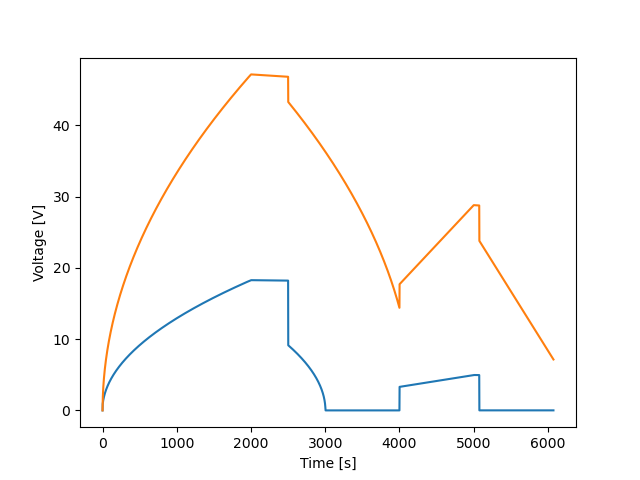
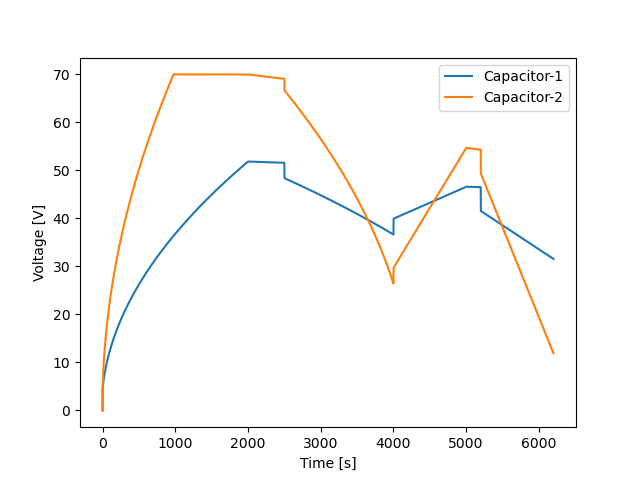
updated_examples

diff --git a/examples/test_supercap.py b/examples/test_supercap.py
@@ -7,19 +7,19 @@ def main():
 	#initialize capacitor-1 with its nameplate details
 	mysupercap1 = {
 		'leakcurrent' : 500e-4*3, #in A
-		'capacitance' : 400*3, # in F
-		'ratedcurrent' : 10*3, # in A
-		'initialvoltage' : 0*3, # in V
-		'ratedvoltage' : 70*3, # in V
+		'capacitance' : 300, # in F
+		'ratedcurrent' : 30, # in A
+		'initialvoltage' : 0, # in V
+		'ratedvoltage' : 70, # in V
 		'esr' : 0.55*3 # in ohms
 		}
 	#initialize capacitor-2 with its nameplate details	
 	mysupercap2 = {
-		'leakcurrent' : 400e-4*3, #in A
-		'capacitance' : 60*3, # in F
-		'ratedcurrent' : 25*3, # in A
-		'initialvoltage' : 0*3, # in V
-		'ratedvoltage' : 75*3, # in V
+		'leakcurrent' : 500e-4*3, #in A
+		'capacitance' : 80, # in F
+		'ratedcurrent' : 30, # in A
+		'initialvoltage' : 0, # in V
+		'ratedvoltage' : 70, # in V
 		'esr' : 0.55*3 # in ohms
 		}
 
@@ -29,22 +29,20 @@ def main():
 	testsc.set_timedelta(dtt.timedelta(seconds=1))
 	 
 	for i in range(0,2000):
-		testsc.charge_ctP(100)
+		testsc.charge_ctP(200)
 	for i in range(0,500):
 		testsc.selfdischarge()
 	for i in range(0,1500):
 		testsc.discharge_ctP(100) 
 	for i in range(0,1000):
 		testsc.charge_ctI(2)
-	for i in range(0,75):
+	for i in range(0,200):
 		testsc.selfdischarge()
 	for i in range(0,1000):
 		testsc.discharge_ctI(3) 
 		   
-	plt.plot(testsc.voltageseries)
-	plt.xlabel('Time [s]')
-	plt.ylabel('Voltage [V]')
-	#plt.show(block=True)  
+	plt.plot(testsc.voltageseries,label='Capacitor-1')
+
 	
 	#The following lines allow to generate a test charge and discharge process for the supercapacitor1
 	testsc2 = SuperCapacitorModel(mysupercap2)
@@ -52,19 +50,20 @@ def main():
 	testsc2.set_timedelta(dtt.timedelta(seconds=1))
 	 
 	for i in range(0,2000):
-		testsc2.charge_ctP(100)
+		testsc2.charge_ctP(200)
 	for i in range(0,500):
 		testsc2.selfdischarge()
 	for i in range(0,1500):
 		testsc2.discharge_ctP(100) 
 	for i in range(0,1000):
 		testsc2.charge_ctI(2)
-	for i in range(0,75):
+	for i in range(0,200):
 		testsc2.selfdischarge()
 	for i in range(0,1000):
 		testsc2.discharge_ctI(3) 
 		   
-	plt.plot(testsc2.voltageseries)
+	plt.plot(testsc2.voltageseries,label='Capacitor-2')
+	plt.legend(loc="best")
 	plt.xlabel('Time [s]')
 	plt.ylabel('Voltage [V]')
 	plt.show(block=True)  

diff --git a/README.md b/README.md
@@ -16,7 +16,9 @@ $ pip install supercap
 
 Sample usage example can be found in examples folder. 
 
-##Roadmap and future work
+![example1](/examples/example1_output.png)
+
+## Roadmap and future work
 
 * Implement more equivalent circuit models available in literature
 * Implement models that also consider Electrochemical properties of super capacitor
